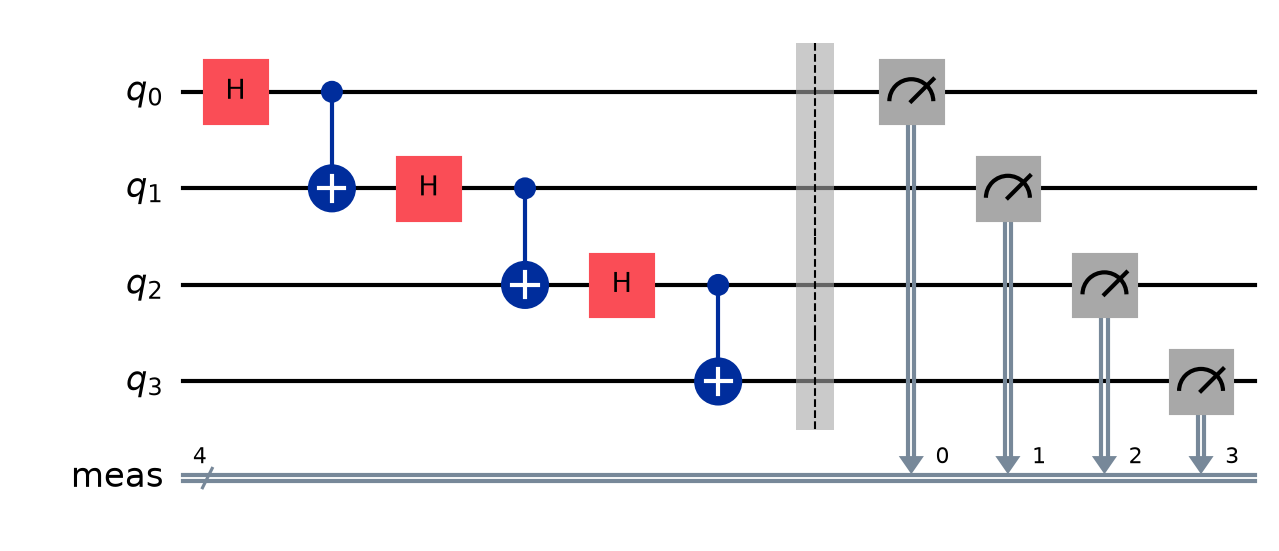
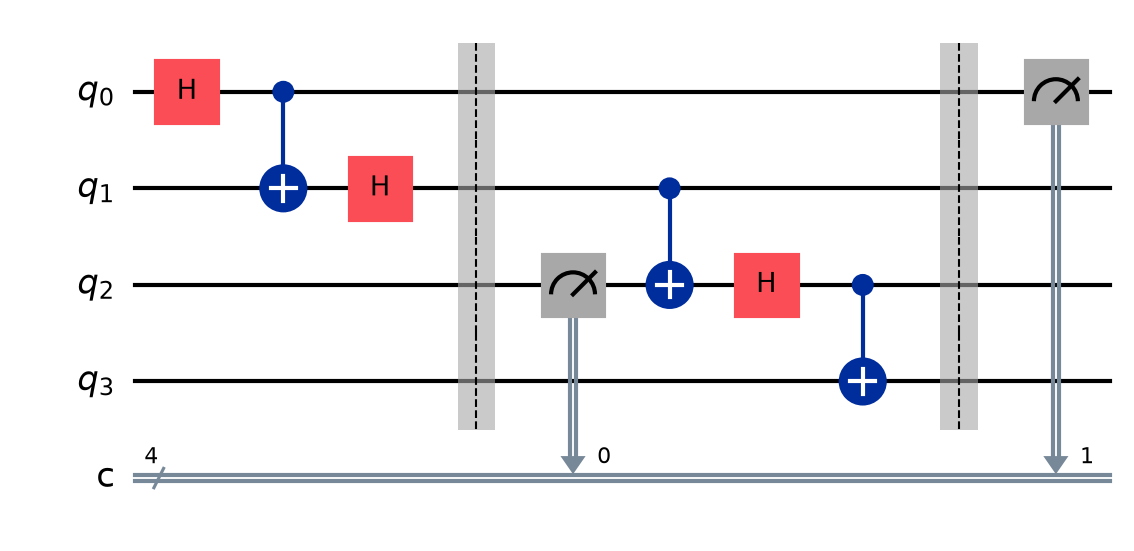
IDKWTFIAD

diff --git a/test_grover.py b/test_grover.py
@@ -1,0 +1,36 @@
+import math
+from qiskit import QuantumCircuit, QuantumRegister, ClassicalRegister,generate_preset_pass_manager
+from qiskit.circuit.library import grover_operator, MCMTGate, ZGate
+from qiskit.visualization import plot_distribution,plot_histogram
+from qiskit.transpiler.preset_passmanagers import generate_preset_pass_manager
+from qiskit_aer import AerSimulator
+import matplotlib.pyplot as plt
+
+def run_circuit_and_get_counts(circuit, backend, shots=int):
+    pm = generate_preset_pass_manager(backend=backend, optimization_level=1)
+    isa_circuit = pm.run(circuit)
+    result = backend.run(isa_circuit, shots=shots).result()
+    return result.get_counts()
+
+def grover_oracle(deimos_states):
+    if not isinstance(deimos_states, list):
+        deimos_states = [deimos_states]
+    num_qbits = len(deimos_states[0])
+    qc = QuantumCircuit(num_qbits)
+    for target in deimos_states:
+        rev_deimos = target[::-1]
+        zero_ind = [ind for ind in range(num_qbits) if rev_deimos.startswith('0', ind)]
+        print(f"Zero indices for target {target}: {zero_ind}")
+        qc.x(zero_ind)
+        qc.compose(MCMTGate(ZGate(), num_qbits - 1, 1), inplace = True)
+        qc.x(zero_ind)
+    return qc
+
+deimos_state = '1110'
+oracle = grover_oracle(deimos_state)
+oracle.draw(output='mpl', style='iqp', filename='grover_oracle.png')
+
+backend = AerSimulator()
+counts = run_circuit_and_get_counts(oracle, backend, shots=3000)
+fig = plot_histogram(counts)
+plt.savefig("grover_oracle_histogram.png")

diff --git a/sim_qiskit.py b/sim_qiskit.py
@@ -24,14 +24,18 @@ fig = plot_histogram(counts)
 fig.savefig("bell_histogram_3q.png")
 plt.show()
 
-qc = QuantumCircuit(4)
+qc = QuantumCircuit(4,4)
 qc.h(0)
 qc.cx(0, 1)
 qc.h(1)
+qc.barrier()
+qc.measure(2, 0)
 qc.cx(1, 2)
 qc.h(2)
 qc.cx(2, 3)
-qc.measure_all()
+qc.barrier()
+qc.measure(0, 1)
+
 print(qc)
 qc.draw(output="mpl", filename="bell_circuit_4q.png")
 backend = AerSimulator()
